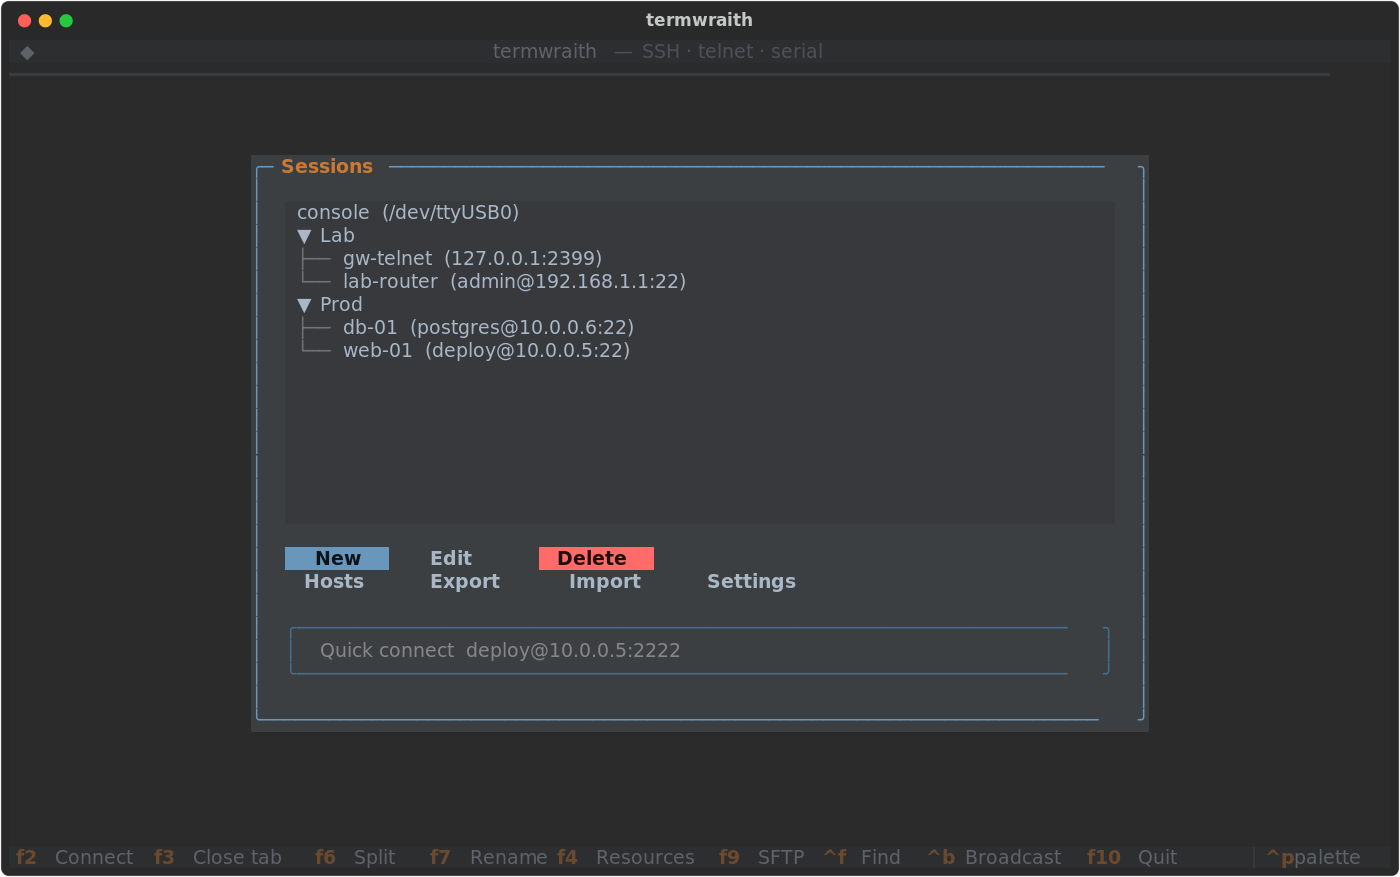
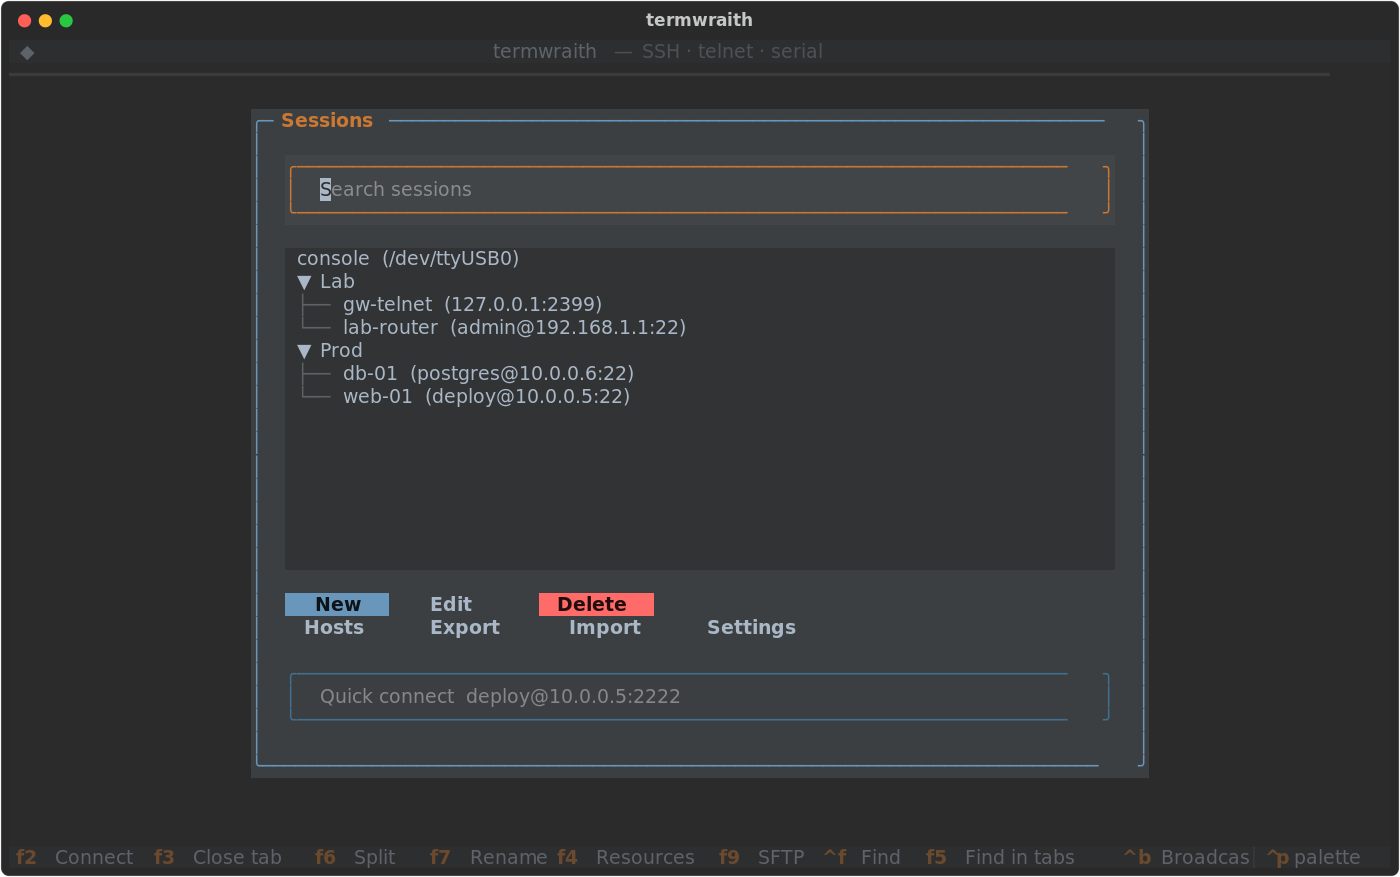
Add per-session colours, tab search, log templates and quick-connect history
SecureCRT import now keeps each session's colour scheme, scrollback and
auto-reconnect, and Global.ini schemes are imported so sessions resolve
them. F5 searches all open tabs. Log filenames take a template with
{session}, {host} and {stamp}. Up/Down recalls recent quick-connect
targets. The picker has a search box, and the README has screenshots.

diff --git a/termwraith/app.py b/termwraith/app.py
@@ -5,6 +5,7 @@ from pathlib import Path
 
 from textual import on
 from textual.app import App, ComposeResult
+from textual.events import Key
 from textual.binding import Binding
 from textual.containers import Horizontal, Vertical, VerticalScroll
 from textual.screen import ModalScreen
@@ -276,6 +277,8 @@ class SettingsScreen(ModalScreen[None]):
                 yield Label("Log session output")
             yield Label("Log directory")
             yield Input(value=self._config.log_dir, id="log-dir")
+            yield Label("Log filename, placeholders {session} {host} {stamp}")
+            yield Input(value=self._config.log_template, id="log-template")
             yield Label("Theme")
             yield Select(THEME_CHOICES, value=self._config.theme, allow_blank=False, id="theme")
             with Horizontal(classes="pair"):
@@ -299,6 +302,15 @@ class SettingsScreen(ModalScreen[None]):
         if not directory:
             self.notify("Log directory is required", severity="error")
             return
+        template = self.query_one("#log-template", Input).value.strip()
+        try:
+            template.format(session="x", host="x", stamp="x")
+        except (KeyError, IndexError, ValueError):
+            self.notify("Log filename may only use {session}, {host} and {stamp}", severity="error")
+            return
+        if not template:
+            self.notify("Log filename is required", severity="error")
+            return
         fg = self.query_one("#fg", Input).value.strip()
         bg = self.query_one("#bg", Input).value.strip()
         if not (HEX_COLOUR.match(fg) and HEX_COLOUR.match(bg)):
@@ -316,7 +328,16 @@ class SettingsScreen(ModalScreen[None]):
         enabled = self.query_one("#log-enabled", Switch).value
         theme = self.query_one("#theme", Select).value
         write_config(
-            replace(self._config, log_enabled=enabled, log_dir=directory, theme=theme, fg=fg, bg=bg, macros=macros)
+            replace(
+                self._config,
+                log_enabled=enabled,
+                log_dir=directory,
+                log_template=template,
+                theme=theme,
+                fg=fg,
+                bg=bg,
+                macros=macros,
+            )
         )
         self.app.theme = theme
         self.dismiss(None)
@@ -373,6 +394,7 @@ class Picker(ModalScreen[Session | None]):
     def __init__(self) -> None:
         super().__init__()
         self._sessions = load_sessions()
+        self._recall = -1
 
     def compose(self) -> ComposeResult:
         with Vertical(id="box") as box:
@@ -543,7 +565,10 @@ class Picker(ModalScreen[Session | None]):
         if not found:
             self.notify("no importable settings in that Global.ini", severity="warning")
             return
-        write_config(replace(load_config(), **found))
+        config = load_config()
+        if "schemes" in found:
+            found["schemes"] = {**config.schemes, **found["schemes"]}
+        write_config(replace(config, **found))
         self.notify(f"imported {', '.join(sorted(found))} from SecureCRT; new tabs use the new colours")
 
     def _finish_import(self, added: list[Session], master: str | None) -> None:
@@ -590,9 +615,23 @@ class Picker(ModalScreen[Session | None]):
         if not value:
             return
         try:
-            self.dismiss(parse_target(value))
+            target = parse_target(value)
         except ValueError:
             self.notify("Port must be a number", severity="error")
+            return
+        config = load_config()
+        write_config(replace(config, recent=[value, *(v for v in config.recent if v != value)][:10]))
+        self.dismiss(target)
+
+    def on_key(self, event: Key) -> None:
+        quick = self.query_one("#quick", Input)
+        recent = load_config().recent
+        if self.focused is not quick or event.key not in ("up", "down") or not recent:
+            return
+        self._recall = max(-1, min(len(recent) - 1, self._recall + (1 if event.key == "up" else -1)))
+        quick.value = recent[self._recall] if self._recall >= 0 else ""
+        quick.cursor_position = len(quick.value)
+        event.stop()
 
     def action_cancel(self) -> None:
         self.dismiss(None)
@@ -618,6 +657,26 @@ class PasswordPrompt(ModalScreen[str | None]):
         self.dismiss(None)
 
 
+class SearchResults(ModalScreen[int | None]):
+    BINDINGS = [Binding("escape", "cancel", "Cancel")]
+
+    def __init__(self, rows: list[str]) -> None:
+        super().__init__()
+        self._rows = rows
+
+    def compose(self) -> ComposeResult:
+        with Vertical(id="box") as box:
+            box.border_title = f"{len(self._rows)} matches in open tabs"
+            yield OptionList(*self._rows, id="hits")
+
+    @on(OptionList.OptionSelected)
+    def _pick(self, event: OptionList.OptionSelected) -> None:
+        self.dismiss(event.option_index)
+
+    def action_cancel(self) -> None:
+        self.dismiss(None)
+
+
 class TermWraith(App):
     TITLE = "termwraith"
     SUB_TITLE = "SSH · telnet · serial"
@@ -635,7 +694,7 @@ class TermWraith(App):
     #form-box { width: 96; height: 95%; border: round $primary; border-title-color: $accent; border-title-style: bold; background: $surface; padding: 1 2; }
     #form-body { height: 1fr; }
     .pair { height: auto; }
-    #macros { height: 6; }
+    #macros { height: 4; }
     .field { width: 1fr; height: auto; margin-right: 2; }
     .field.narrow { width: 14; }
     .field.full { width: 100%; margin-right: 0; }
@@ -650,6 +709,7 @@ class TermWraith(App):
     SftpScreen { align: center middle; }
     ResourcesScreen { align: center middle; }
     #res-box { width: 70; height: auto; border: thick $accent; background: $surface; padding: 1 2; }
+    #hits { height: auto; max-height: 20; }
     #filter { margin-bottom: 1; border: round $primary-darken-2; }
     #filter:focus { border: round $accent; }
     #saved { height: 14; background: $panel; padding: 0 1; }
@@ -676,6 +736,7 @@ class TermWraith(App):
         Binding("f4", "resources", "Resources"),
         Binding("f9", "sftp", "SFTP"),
         Binding("ctrl+f", "search", "Find"),
+        Binding("f5", "search_all", "Find in tabs"),
         Binding("ctrl+b", "broadcast", "Broadcast"),
         Binding("ctrl+pagedown", "cycle_tab(1)", "Next tab", show=False),
         Binding("ctrl+pageup", "cycle_tab(-1)", "Prev tab", show=False),
@@ -830,6 +891,36 @@ class TermWraith(App):
             return
         count = term.search(query)
         self.notify(f"{count} match{'es' if count != 1 else ''}" if count else "no matches")
+
+    def action_search_all(self) -> None:
+        self.push_screen(TextPrompt("Search all open tabs"), self._run_search_all)
+
+    def _run_search_all(self, query: str | None) -> None:
+        if not query:
+            return
+        needle = query.lower()
+        hits: list[tuple[str, SSHTerminal]] = []
+        rows: list[str] = []
+        tabs = self.query_one(TabbedContent)
+        for pane in tabs.query(TabPane):
+            label = tabs.get_tab(pane.id).label_text
+            for term in pane.query(SSHTerminal):
+                for line in term._screen_text().splitlines():
+                    if needle in line.lower():
+                        hits.append((pane.id, term))
+                        rows.append(f"{label}  {line.strip()[:60]}")
+        if not rows:
+            self.notify("no matches in open tabs")
+            return
+        self.push_screen(SearchResults(rows), lambda index: self._jump_to_hit(hits, index, query))
+
+    def _jump_to_hit(self, hits: list[tuple[str, SSHTerminal]], index: int | None, query: str) -> None:
+        if index is None:
+            return
+        pane_id, term = hits[index]
+        self.query_one(TabbedContent).active = pane_id
+        term.search(query)
+        term.focus()
 
     def action_search_next(self) -> None:
         term = self._focused_term()

diff --git a/termwraith/securecrt.py b/termwraith/securecrt.py
@@ -118,6 +118,9 @@ def _to_session(path: str, values: dict[str, str | int], defaults: dict[str, str
         folder=folder,
         protocol=protocol,
         baud=int(merged.get("Baud Rate", 9600)) if protocol == "serial" else 9600,
+        reconnect=bool(merged.get("Auto Reconnect", 0)),
+        colour_scheme=str(merged.get("Color Scheme", "")),
+        scrollback=int(merged.get("Scrollback", 5000)),
     )
 
 
@@ -141,19 +144,23 @@ def _hex_colour(value: str) -> str | None:
     return f"#{digits.upper()}"
 
 
-def load_global_config(path: Path) -> dict[str, bool | str]:
+def load_global_config(path: Path) -> dict[str, object]:
     values = _parse_ini(_read_text(path))
-    found: dict[str, bool | str] = {}
+    found: dict[str, object] = {}
     if "Enable Log File" in values:
         found["log_enabled"] = bool(values["Enable Log File"])
     scheme = values.get("Command Window Color Scheme")
+    schemes: dict[str, list[str]] = {}
     for row in str(values.get("Color Schemes", "")).split("\n"):
         fields = row.split(",")
-        if len(fields) < 19 or fields[0] != scheme:
+        if len(fields) < 19:
             continue
         fg, bg = _hex_colour(fields[2]), _hex_colour(fields[10])
-        if fg and bg:
-            found["fg"] = fg
-            found["bg"] = bg
-        break
+        if not (fg and bg):
+            continue
+        schemes[fields[0]] = [fg, bg]
+        if fields[0] == scheme:
+            found["fg"], found["bg"] = fg, bg
+    if schemes:
+        found["schemes"] = schemes
     return found

diff --git a/termwraith/store.py b/termwraith/store.py
@@ -28,6 +28,8 @@ class Session:
     baud: int = 9600
     script: list[str] = field(default_factory=list)
     has_script: bool = False
+    colour_scheme: str = ""
+    scrollback: int = 5000
 
     @property
     def address(self) -> str:
@@ -44,6 +46,9 @@ class Config:
     fg: str = "#A9B7C6"
     bg: str = "#2B2B2B"
     macros: list[dict] = field(default_factory=list)
+    log_template: str = "{session}-{stamp}.log"
+    schemes: dict[str, list[str]] = field(default_factory=dict)
+    recent: list[str] = field(default_factory=list)
 
 
 def load_sessions(path: Path = SESSIONS_FILE) -> list[Session]:
@@ -75,10 +80,14 @@ def write_config(config: Config, path: Path = CONFIG_FILE) -> None:
     path.write_text(json.dumps(asdict(config), indent=2) + "\n")
 
 
-def log_path(config: Config, session_name: str) -> Path:
+def _safe(text: str) -> str:
+    return re.sub(r"[^A-Za-z0-9._-]+", "_", text)
+
+
+def log_path(config: Config, target: Session) -> Path:
     stamp = datetime.now().strftime("%Y%m%d-%H%M%S")
-    safe_name = re.sub(r"[^A-Za-z0-9._-]+", "_", session_name)
-    return Path(config.log_dir).expanduser() / f"{safe_name}-{stamp}.log"
+    name = config.log_template.format(session=_safe(target.name), host=_safe(target.host), stamp=stamp)
+    return Path(config.log_dir).expanduser() / _safe(name)
 
 
 def read_known_hosts() -> list[str]:

diff --git a/termwraith/terminal.py b/termwraith/terminal.py
@@ -44,7 +44,6 @@ CURSOR_KEYS = {"up": "A", "down": "B", "right": "C", "left": "D", "home": "H", "
 DECCKM = 1 << 5
 RECONNECT_DELAY = 5
 KEEPALIVE_SECONDS = 30
-SCROLLBACK = 5000
 WHEEL_LINES = 3
 
 
@@ -90,10 +89,9 @@ class SSHTerminal(Widget, can_focus=True):
         self.target = target
         self.master = master
         config = load_config()
-        self._fg = config.fg
-        self._bg = config.bg
+        self._fg, self._bg = config.schemes.get(target.colour_scheme) or (config.fg, config.bg)
         self._macros = {m["key"]: codecs.decode(m["send"], "unicode_escape") for m in config.macros}
-        self.buffer = pyte.HistoryScreen(80, 24, history=SCROLLBACK)
+        self.buffer = pyte.HistoryScreen(80, 24, history=target.scrollback)
         self._stream = pyte.ByteStream(self.buffer)
         self._conn: asyncssh.SSHClientConnection | None = None
         self._jump: asyncssh.SSHClientConnection | None = None
@@ -388,7 +386,7 @@ class SSHTerminal(Widget, can_focus=True):
         config = load_config()
         if not config.log_enabled:
             return None
-        path = log_path(config, self.target.name)
+        path = log_path(config, self.target)
         path.parent.mkdir(parents=True, exist_ok=True)
         return path.open("ab")
 

diff --git a/README.md b/README.md
@@ -42,11 +42,17 @@ In the session picker, press Import and give a path to either:
 - a `.reg` export of `HKEY_CURRENT_USER\Software\VanDyke\SecureCRT\Sessions`
 - SecureCRT's `Global.ini` (`%APPDATA%\VanDyke\Config`) to import the command-window colour scheme and the logging switch
 
-Folders, hosts, ports, usernames, key paths, serial ports and baud rates are imported; the `Default` session fills in missing values. Saved passwords are encrypted by SecureCRT and are not imported; re-enter them in termwraith. From `Global.ini` only the colour scheme and logging switch carry over; other SecureCRT settings have no termwraith equivalent yet.
+Folders, hosts, ports, usernames, key paths, serial ports and baud rates are imported; the `Default` session fills in missing values. Each session also keeps its SecureCRT colour scheme name, scrollback length and auto-reconnect setting. Saved passwords are encrypted by SecureCRT and are not imported; re-enter them in termwraith. From `Global.ini` the colour schemes (so imported sessions can use them), the command-window colours and the logging switch carry over; other SecureCRT settings have no termwraith equivalent yet.
+
+## Logs
+
+Set the log directory and filename template in Settings. The template accepts `{session}`, `{host}` and `{stamp}` (timestamp), for example `{host}_{session}_{stamp}.log`. Unsafe characters are replaced with `_`.
 
 ## Keys
 
 - F2 connect, F3 close tab, F4 remote resources (SSH), F6 split pane, F7 rename tab
-- F8 next search match, Ctrl+F search, Ctrl+B broadcast to all panes
+- F5 find text in all open tabs (pick a hit to jump to its tab), F8 next search match, Ctrl+F search, Ctrl+B broadcast to all panes
+- Quick connect: Up/Down recalls the last 10 targets typed in the picker
+- Picker: the search box above the session list filters by name, host, user, folder or protocol
 - Forwards: L:local:host:remote, R:remote:host:local, D:port (SOCKS5 proxy, SSH)
 - F9 SFTP browser (SSH), Ctrl+PgUp/PgDn cycle tabs, Shift+PgUp/PgDn scroll, F10 quit
